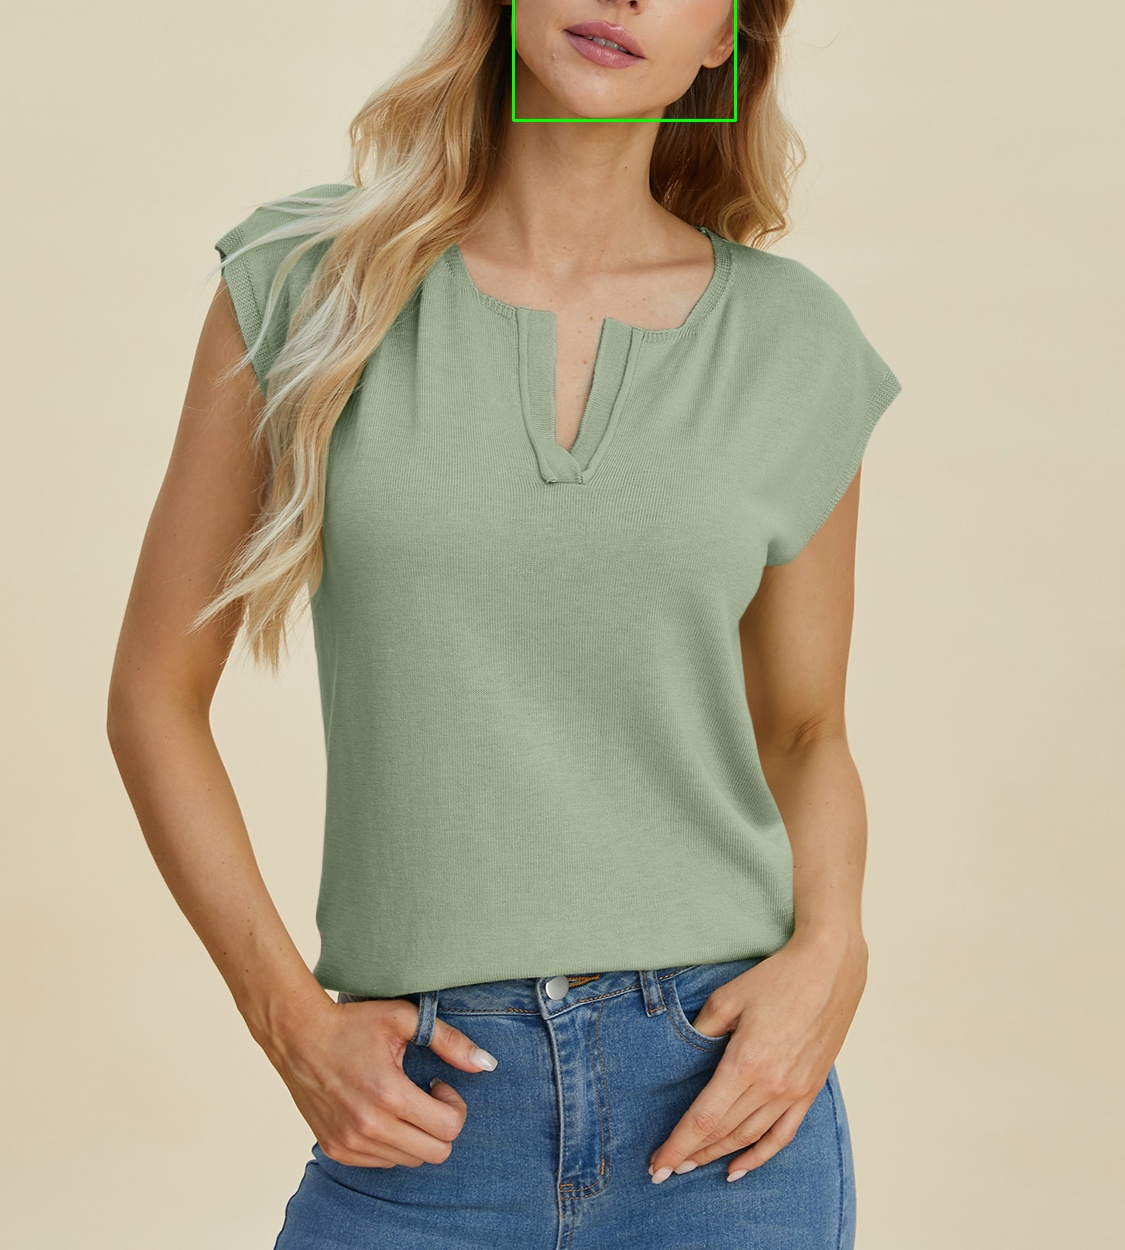
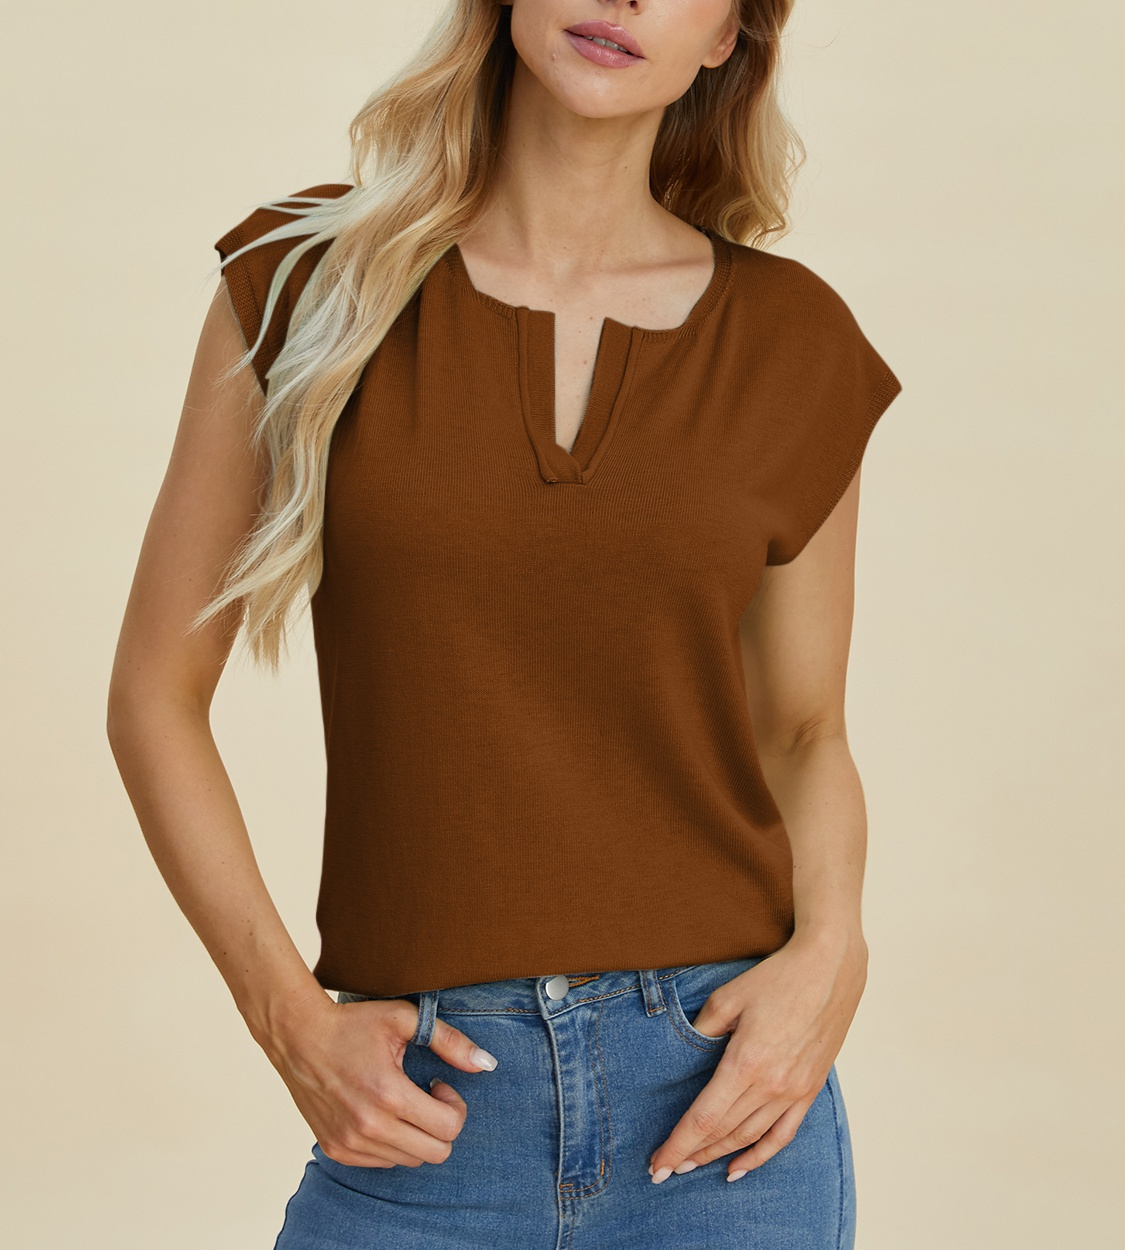
remove background

diff --git a/main.py b/main.py
@@ -48,3 +48,19 @@ else:
     # save result
     cv2.imwrite(cropped_output_path, crop_img)
     print(f"Cropped image saved: {cropped_output_path}")
+
+
+# REMOVE BACKGROUND
+from rembg import remove
+import io
+
+# OpenCV image convert to PIL image
+crop_img_rgb = cv2.cvtColor(crop_img, cv2.COLOR_BGR2RGB) 
+crop_pil = Image.fromarray(crop_img_rgb)
+
+output_pil = remove(crop_pil) # remove bg
+
+# save transparent bg image as png
+masked_output_path = 'output_cropped_removed.png'
+output_pil.save(masked_output_path)
+print(f"Remove background complete, saved as: {masked_output_path}")
